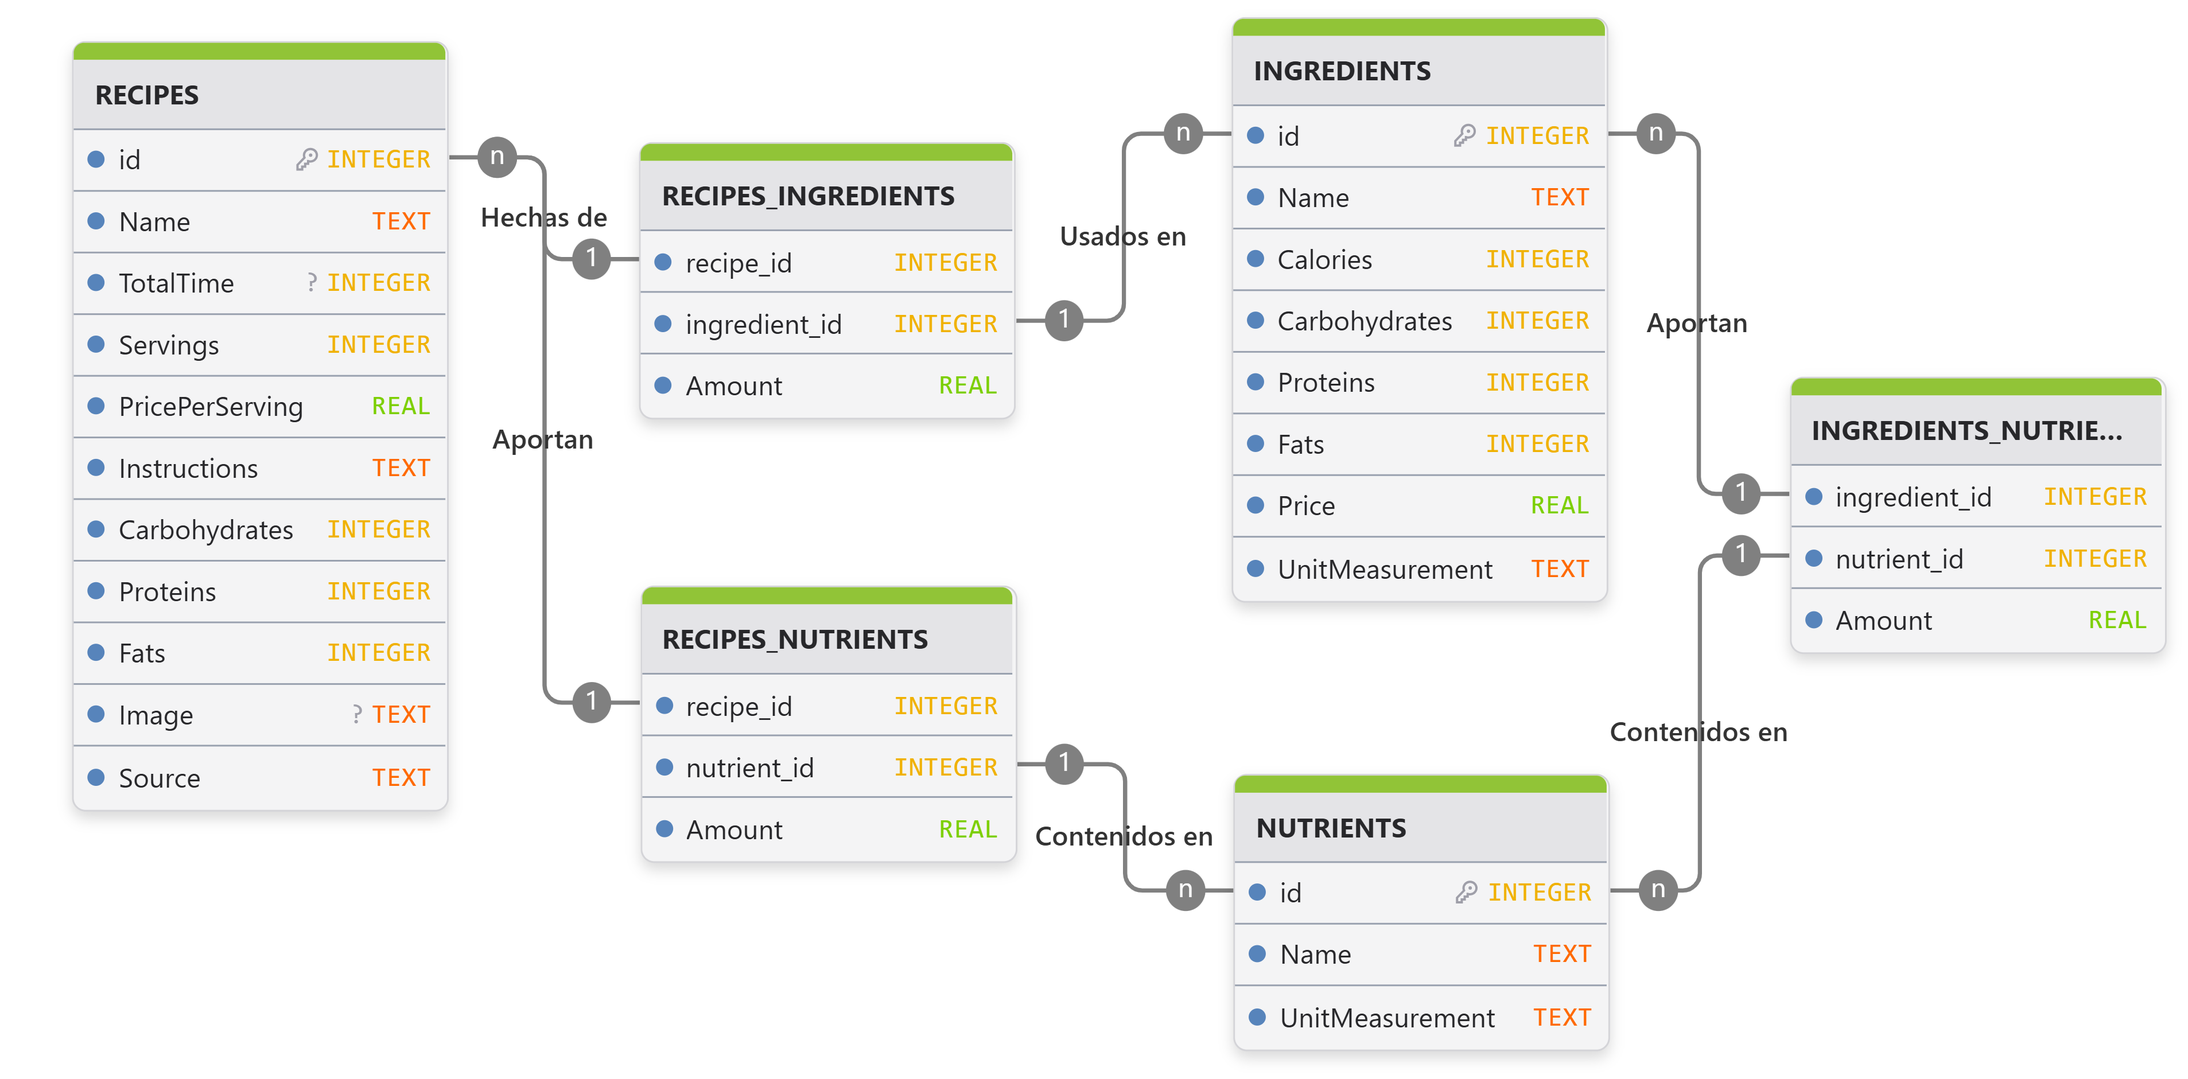
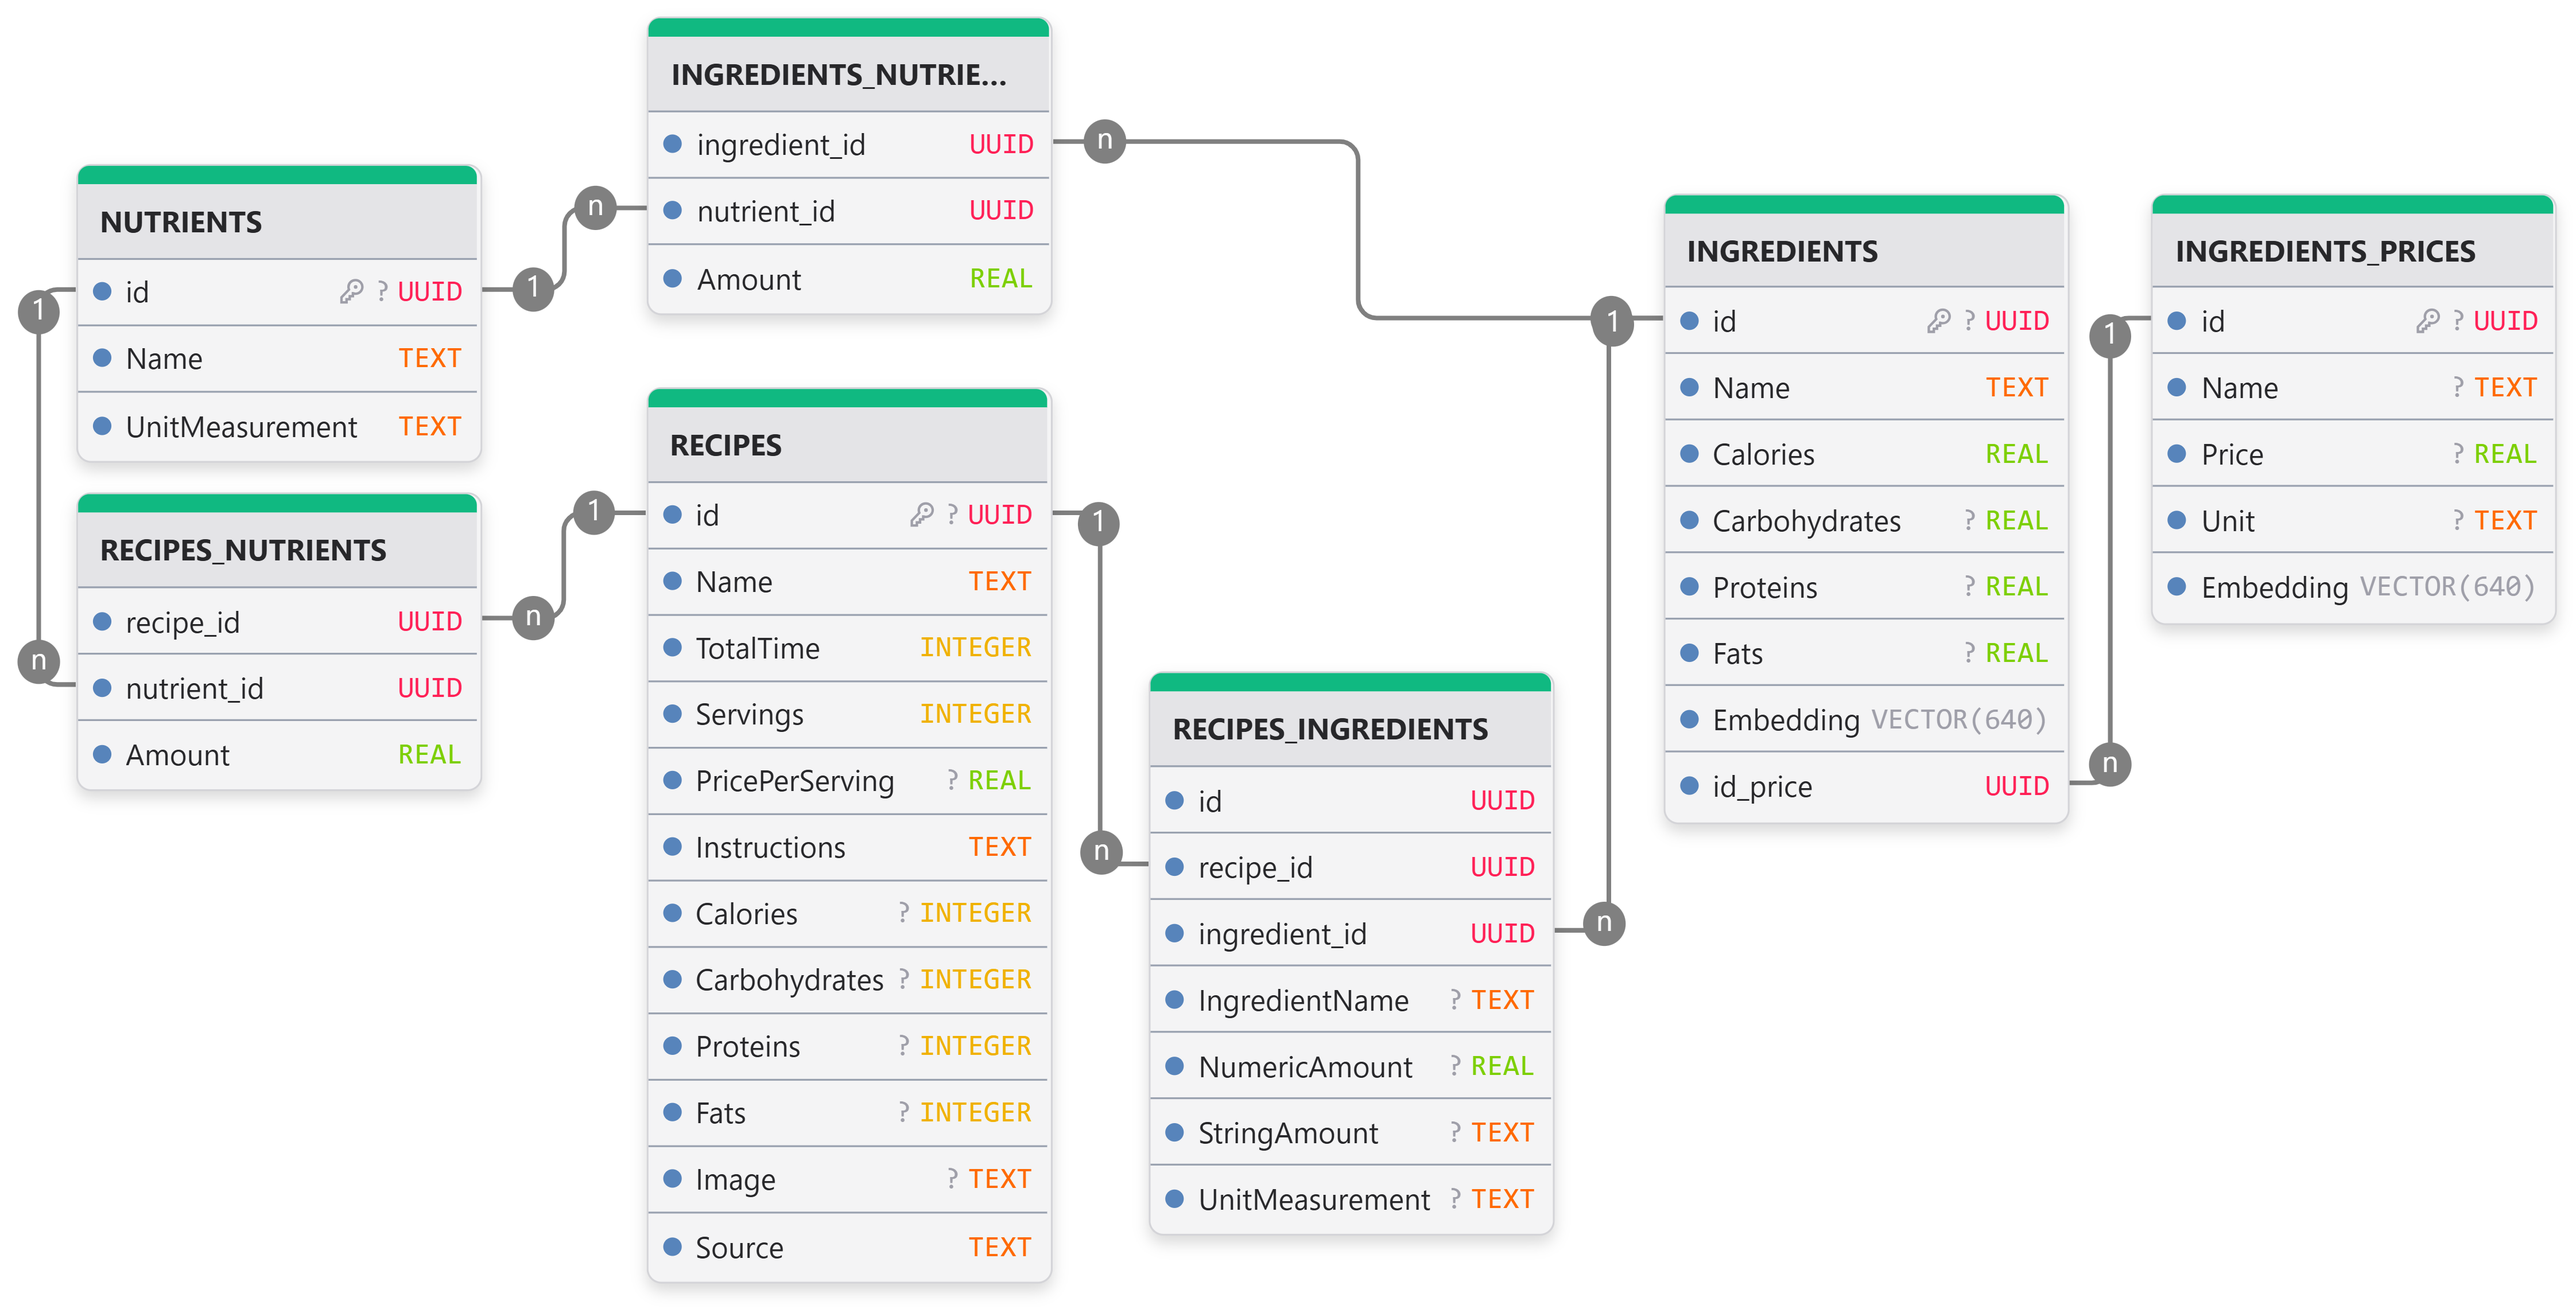
Modifications at ETL section at main readme
Changes include:
- Minor change at database ingredients diagram
- Add requirements file for the execution of the  ETL pipeline
- Modifications at ETL pipeline section at main readme to add information about to execute the pipeline

diff --git a/README.md b/README.md
@@ -6,7 +6,9 @@
 - [Value Proposition](#value-proposition)
 - [Objective](#objective)
 - [Key Features](#key-features)
-- [ETL Pipelines](#etl-pipelines)
+- [ETL Pipeline](#etl-pipeline)
+  - [Usage](#usage)
+  - [Datasets](#datasets)
 - [Author, Affiliation and Contact](#author-affiliation-and-contact)
 - [Referencias](#referencias)
 
@@ -41,7 +43,36 @@ Develop a **digital repository of nutritionally balanced recipes that streamline
 * **Automate Supply Chain Management**: Integrate a logistics module for the automated generation of ingredient lists and inventory requirements based on planned menu cycles.
 * **Establish Foundation for Autonomous Agents**: Integrate technical documentation and embeddings to facilitate future development of a RAG-based autonomous assistant for intelligent menu generation.
 
-## [ETL Pipelines](./ETL_Pipeline/DOCS.md)
+## ETL Pipeline
+For a **detailed technical overview** of the recipe, ingredient and technical documents **data ingestion flows**, please refer to the [ETL Pipeline](./ETL_Pipeline/README.md) documentation.
+
+### Usage
+Follow these steps to properly use the pipeline:
+1. **Configure Credentials**: Create a *Kiwilimón account*. Copy the example credential file and update it with your *username* and *password*:
+```bash
+cp ./ETL_Pipeline/CREDENTIAL_EXAMPLE.json ./ETL_Pipeline/CREDENTIAL.json
+```
+2. **Install Dependencies**: It is recommended to use a Python virtual environment. Install the required libraries with:
+```bash
+pip install -r ./ETL_Pipeline/requirements.txt
+```
+3. **Environment Variables**: For production or custom deployments, configure your environment variables by copying the example file:
+```bash
+cp .env.example .env
+```
+4. **Start Services**: Launch the Docker services for the database:
+```bash
+docker compose up -d
+```
+5. **Run the Pipeline**: Execute the ETL process with the following command:
+```bash
+python -m ETL_Pipeline
+```
+
+*Note: Ensure the environment variables are exported to your system so the ETL script can access them during execution.*
+
+### Datasets
+Upon successful execution of the pipeline, all **processed data** (available in CSV, JSON, PDF, and Markdown formats) is **organized and stored** in the [Datasets](./Datasets/) folder. Additionally, this directory includes **specific CSV files** designed for **database reconstruction**, facilitating seamless migrations to other systems or a complete database reset if required.
 
 ## Author, Affiliation and Contact
 Alexis Aguilar [Student of Bachelor's Degree in "Tecnologías para la Información en Ciencias" at Universidad Nacional Autónoma de México [UNAM](https://www.unam.mx/)]: alexis.uaguilaru@gmail.com
